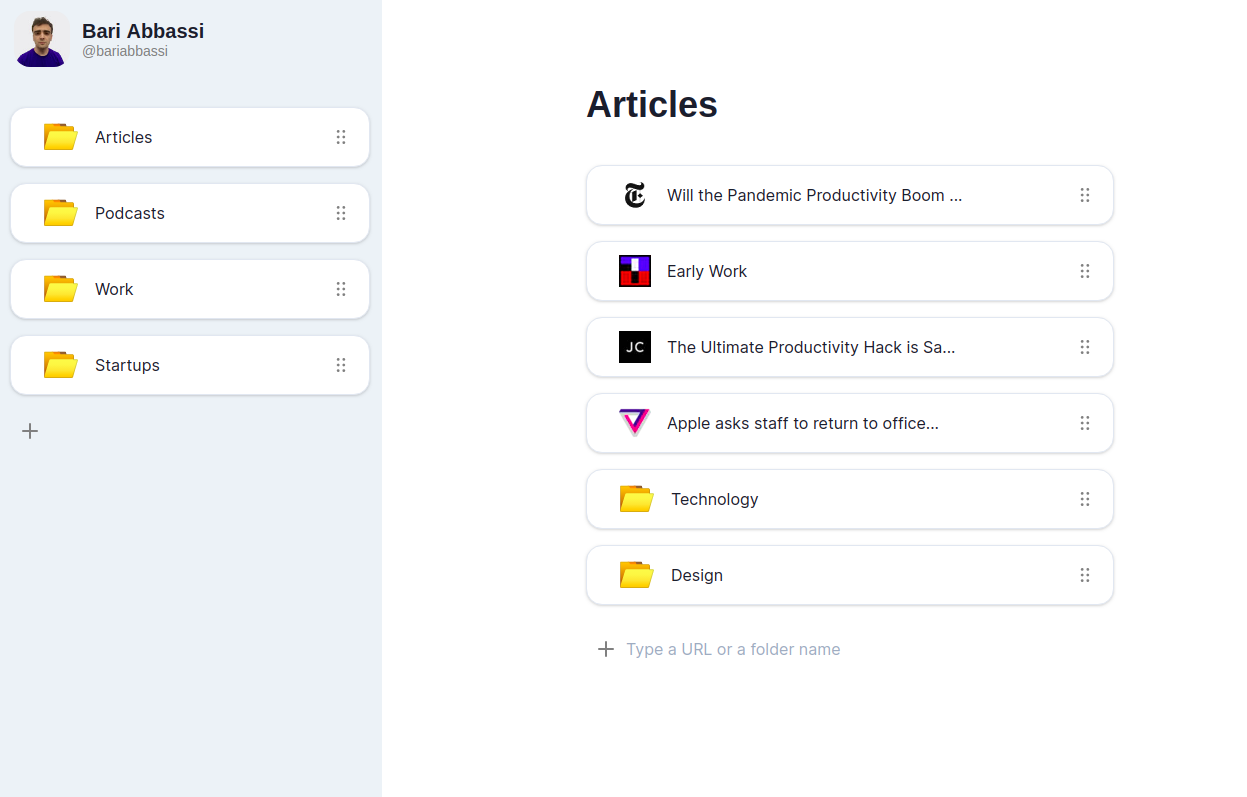
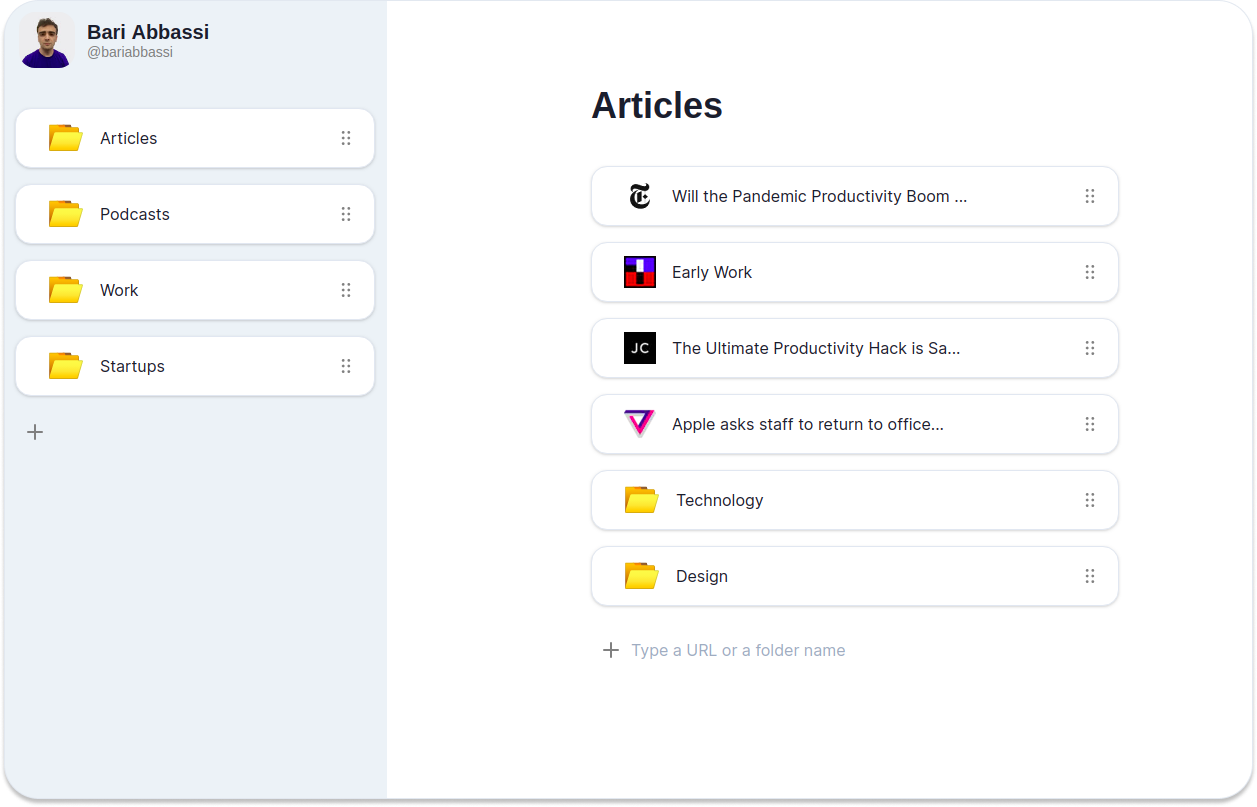
fix image and shell padding

diff --git a/components/Signup/SignupShell.js b/components/Signup/SignupShell.js
@@ -22,33 +22,25 @@ const SignupShell = ({ children }) => {
 
   return (
     <Box backgroundColor="" h="100vh">
-      {/* <Head>
-        <script
-          dangerouslySetInnerHTML={{
-            __html: `
-              if (document.cookie && document.cookie.includes('linkfolders-auth')) {
-                window.location.href = "/"
-              }
-            `
-          }}
-        />
-      </Head> */}
-      <Flex backgroundColor="white" mb={[8, 16]} w="%100">
+      <Flex
+        direction="column"
+        align="center"
+        w="100%"
+        backgroundColor="white"
+        mb={[8, 16]}
+      >
         <Flex
           align="center"
-          justify="flex-start"
-          p={3}
-          maxW="1250px"
-          margin="0 auto"
-          w="full"
-          px={8}
+          justify="space-between"
           h="60px"
+          w="100%"
+          maxW="1250px"
+          p={2}
         >
           <NextLink href="/" passHref>
             <Button
               as="a"
               variant="ghost"
-              mr={3}
               leftIcon={<LinkfoldersIcon width="8" height="8" mb={2} />}
             >
               <Heading size="sm">Linkfolders</Heading>
@@ -56,17 +48,8 @@ const SignupShell = ({ children }) => {
           </NextLink>
         </Flex>
       </Flex>
-      <Flex mb={5} direction="column" align="center">
-        <Flex
-          direction="column"
-          align="center"
-          justify="flex-start"
-          p={3}
-          maxW="400px"
-          margin="0 auto"
-          w="100%"
-          px={8}
-        >
+      <Flex direction="column" align="center">
+        <Flex direction="column" align="center" w="100%" maxW="400px" p={6}>
           {children}
         </Flex>
       </Flex>

diff --git a/components/Landing/LandingShell.js b/components/Landing/LandingShell.js
@@ -21,15 +21,21 @@ const LandingShell = ({ children }) => {
 
   return (
     <Box backgroundColor="" h="100vh">
-      <Flex w="100%" backgroundColor="white" mb={[8, 16]}>
+      <Flex
+        direction="column"
+        align="center"
+        w="100%"
+        backgroundColor="white"
+        mb={[8, 16]}
+      >
         <Flex
           align="center"
           justify="space-between"
-          p={3}
-          maxW="1250px"
-          m="0 auto"
-          w="100%"
           h="60px"
+          w="100%"
+          maxW="1250px"
+          p={2}
+          m="0 auto"
         >
           <Stack direction="row" spacing={3}>
             <NextLink href="/" passHref>
@@ -67,17 +73,8 @@ const LandingShell = ({ children }) => {
           </Stack>
         </Flex>
       </Flex>
-      <Flex mb={5} direction="column" align="center">
-        <Flex
-          direction="column"
-          align="center"
-          justify="flex-start"
-          p={3}
-          maxW="990px"
-          margin="0 auto"
-          w="100%"
-          px={8}
-        >
+      <Flex direction="column" align="center">
+        <Flex direction="column" align="center" w="100%" maxW="990px" p={6}>
           {children}
         </Flex>
       </Flex>

diff --git a/pages/index.js b/pages/index.js
@@ -1,12 +1,6 @@
-import {
-  Box,
-  SimpleGrid,
-  Heading,
-  Text,
-  Button,
-  Image
-} from '@chakra-ui/react';
+import { Box, SimpleGrid, Heading, Text, Button } from '@chakra-ui/react';
 import NextLink from 'next/link';
+import NextImage from 'next/image';
 
 import LandingShell from '@/components/Landing/LandingShell';
 
@@ -25,10 +19,11 @@ const Feature = ({ emoji, title, text }) => {
     </Box>
   );
 };
+
 const Home = () => {
   return (
     <LandingShell>
-      <Box w="100%" textAlign="center" mt={10} mb={20}>
+      <Box w="100%" align="center" mt={10} mb={20}>
         <Heading as="h1" mb={6} size="3xl" letterSpacing="tighter">
           All your links in one place.
         </Heading>
@@ -47,15 +42,13 @@ const Home = () => {
           </Button>
         </NextLink>
       </Box>
-      <Box
-        w="100%"
-        mb={24}
-        boxShadow="md"
-        borderRadius="2xl"
-        overflow="hidden"
-        borderWidth="1px"
-      >
-        <Image src="/screenshot.png" alt="Screenshot" />
+      <Box w="100%" mb={24}>
+        <NextImage
+          src="/screenshot.png"
+          alt="Screenshot"
+          width={1249}
+          height={793}
+        />
       </Box>
 
       <Box w="100%" mb={20}>
